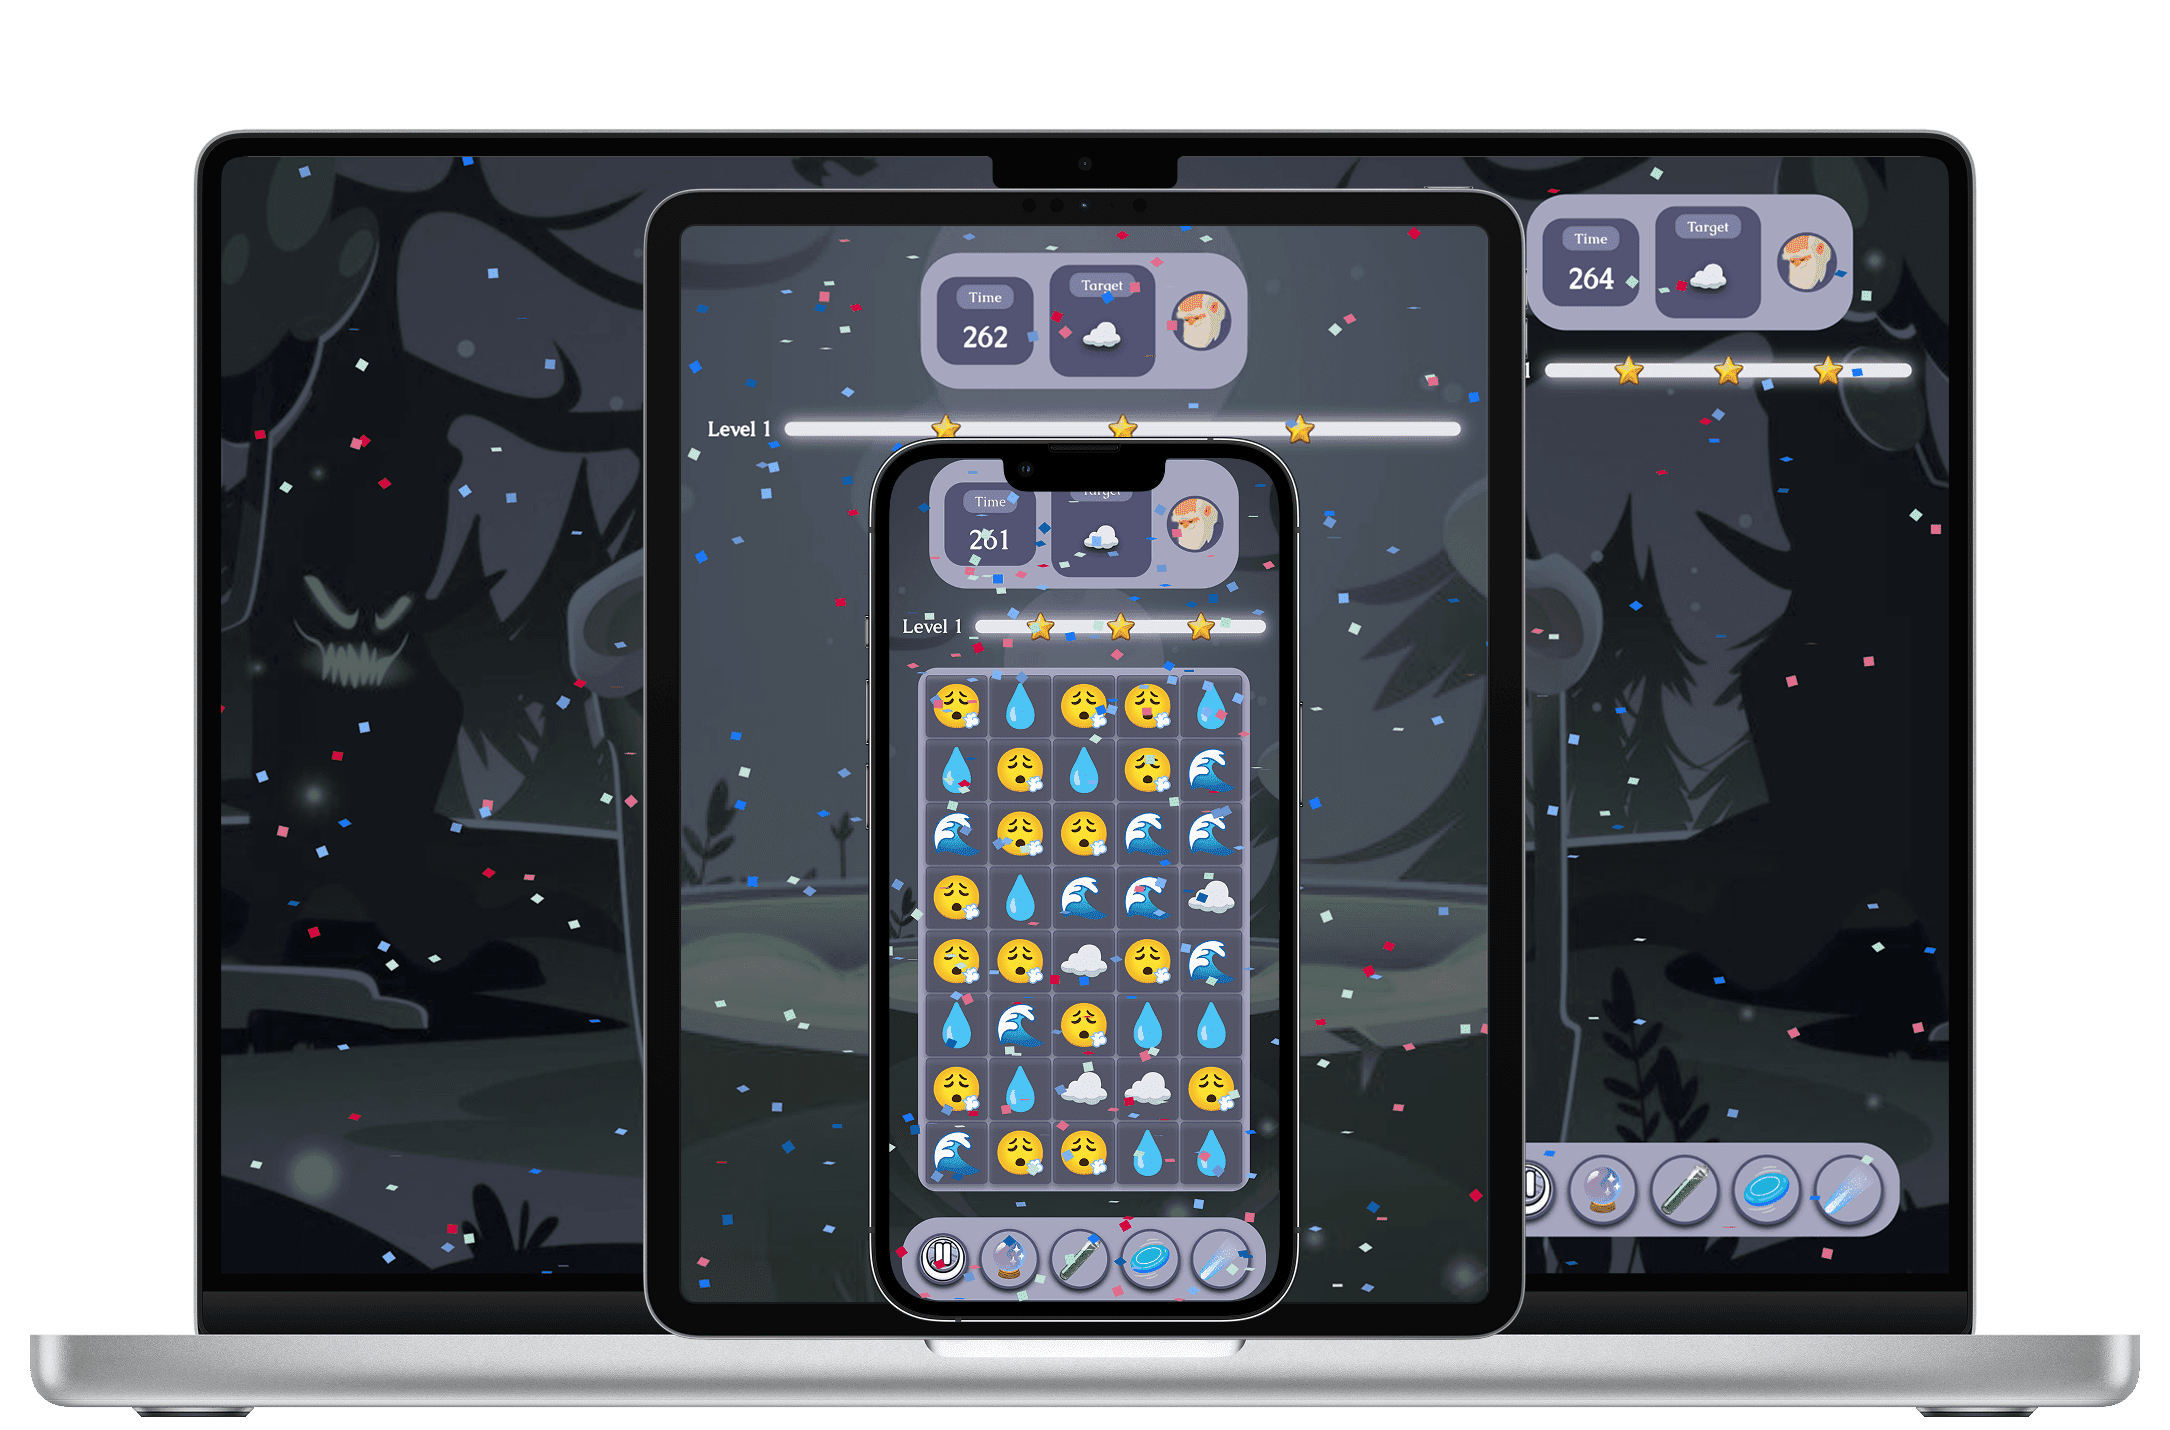
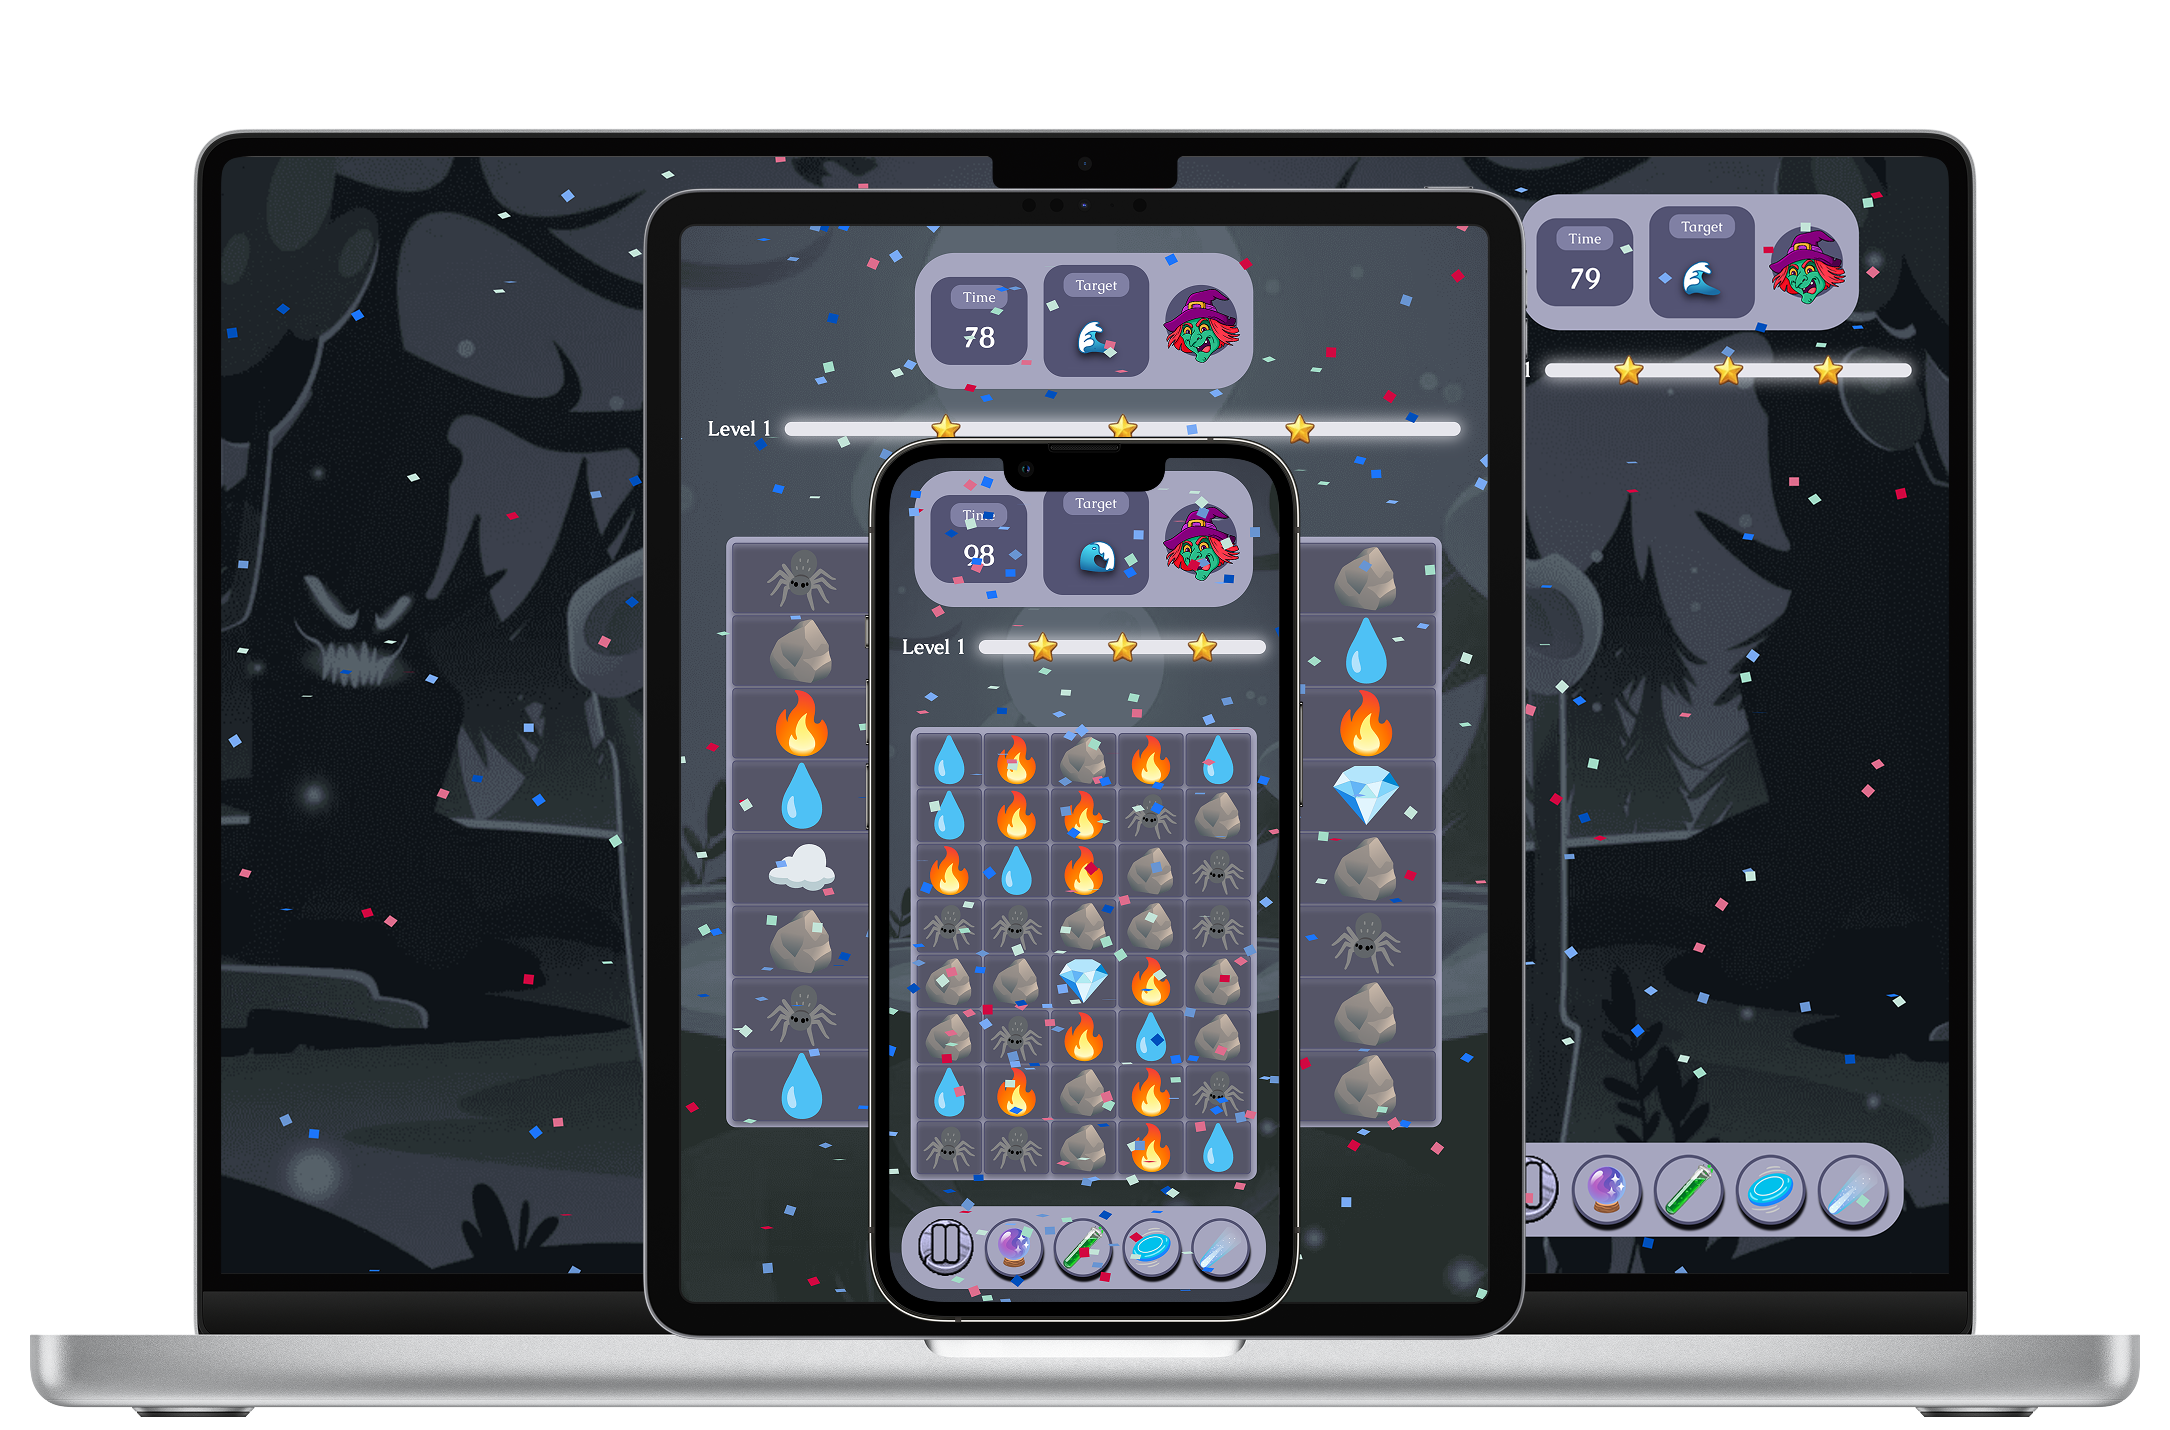
update play store release to early access and added some emo bg to screens

diff --git a/lib/features/profile/widgets/game_bar/index.dart b/lib/features/profile/widgets/game_bar/index.dart
@@ -31,94 +31,90 @@ class GameBar extends StatelessWidget {
   Widget build(BuildContext context) {
     final scale = context.globalScale;
     final profile = context.watchProfile;
+    
+    final topPadding = MediaQuery.paddingOf(context).top;
 
-    return SafeArea(
-      bottom: false,
-      child: SizedBox(
-        height: 105.0 * scale,
-        child: Container(
-          color: backgroundColor,
-          child: Stack(
-            clipBehavior: Clip.none,
-            children: [
-              Container(
-                height: 90.0 * scale,
-                decoration: BoxDecoration(
-                  color: context.palette.midnight,
-                  borderRadius: const BorderRadius.vertical(
-                    bottom: Radius.circular(24.0),
+    return SizedBox(
+      height: (105.0 * scale) + topPadding,
+      child: Container(
+        color: backgroundColor,
+        child: Stack(
+          clipBehavior: Clip.none,
+          children: [
+            Container(
+              height: (90.0 * scale) + topPadding,
+              decoration: BoxDecoration(
+                color: context.palette.midnight,
+                borderRadius: const BorderRadius.vertical(
+                  bottom: Radius.circular(24.0),
+                ),
+                boxShadow: [
+                  BoxShadow(
+                    color: context.palette.voidBlack,
+                    offset: Offset(0, 6 * scale),
+                    blurRadius: 0,
                   ),
-                  boxShadow: [
-                    BoxShadow(
-                      color: context.palette.voidBlack,
-                      offset: Offset(0, 6 * scale),
-                      blurRadius: 0,
-                    ),
-                    BoxShadow(
-                      color: context.palette.voidBlack.withValues(alpha: 0.3),
-                      offset: Offset(0, 10 * scale),
-                      blurRadius: 10,
-                      spreadRadius: 1,
-                    ),
-                  ],
-
-                  image: DecorationImage(
-                    image: const AssetImage('assets/images/vertical_lines.png'),
-                    fit: BoxFit.cover,
-                    colorFilter: ColorFilter.mode(
-                      context.palette.midnight.withValues(alpha: 0.069),
-                      BlendMode.dstATop,
-                    ),
+                  BoxShadow(
+                    color: context.palette.voidBlack.withValues(alpha: 0.3),
+                    offset: Offset(0, 10 * scale),
+                    blurRadius: 10,
+                    spreadRadius: 1,
+                  ),
+                ],
+                image: DecorationImage(
+                  image: const AssetImage('assets/images/vertical_lines.png'),
+                  fit: BoxFit.cover,
+                  colorFilter: ColorFilter.mode(
+                    context.palette.midnight.withValues(alpha: 0.069),
+                    BlendMode.dstATop,
                   ),
                 ),
               ),
-              Positioned(
-                top: 20 * scale,
-                left: 12 * scale,
-                right: 12 * scale,
-                child: Row(
-                  mainAxisAlignment: MainAxisAlignment.spaceBetween,
-                  crossAxisAlignment: CrossAxisAlignment.center,
-                  children: [
-                    AppIcon(
-                      fileName: 'mail_inbox',
-                      size: 30 * scale,
-                      onTap: () => onNotifTap(context),
+            ),
+            Positioned(
+              top: (20 * scale) + topPadding,
+              left: 12 * scale,
+              right: 12 * scale,
+              child: Row(
+                mainAxisAlignment: MainAxisAlignment.spaceBetween,
+                crossAxisAlignment: CrossAxisAlignment.center,
+                children: [
+                  AppIcon(
+                    fileName: 'mail_inbox',
+                    size: 30 * scale,
+                    onTap: () => onNotifTap(context),
+                  ),
+                  const SizedBox(width: 8),
+                  ResourcePill(
+                    iconPath: 'assets/images/cauldron.png',
+                    value: profile.cauldrons == 5
+                        ? "Full"
+                        : profile.cauldrons.toString(),
+                    onTap: () => onCauldronTap(context),
+                  ),
+                  AnimatedButton(
+                    child: ProfileAvatar(
+                      avatar: profile.avatar,
+                      onTap: () => onProfileTap(context),
                     ),
-                    const SizedBox(width: 8),
-                    ResourcePill(
-                      iconPath: 'assets/images/cauldron.png',
-                      value: profile.cauldrons == 5
-                          ? "Full"
-                          : profile.cauldrons.toString(),
-                      onTap: () => onCauldronTap(context),
-                    ),
-                    AnimatedButton(
-                      child: ProfileAvatar(
-                        avatar: profile.avatar,
-                        onTap: () => onProfileTap(context),
-                      ),
-                    ),
-                    Flexible(
-                      child: ResourcePill(
-                        iconPath: 'assets/images/dice.png',
-                        value: profile.dices.toString(),
-                        onTap: () =>
-                            GoRouter.of(context).goNamed(Routes.market),
-                      ),
-                    ),
-                    const SizedBox(width: 8),
-                    AppIcon(
-                      fileName: 'settings',
-                      size: 30 * scale,
+                  ),
+                  ResourcePill(
+                      iconPath: 'assets/images/dice.png',
+                      value: profile.dices.toString(),
                       onTap: () =>
-                          GoRouter.of(context).pushNamed(Routes.settings),
+                          GoRouter.of(context).goNamed(Routes.market),
                     ),
-                  ],
-                ),
+                  const SizedBox(width: 8),
+                  AppIcon(
+                    fileName: 'settings',
+                    size: 30 * scale,
+                    onTap: () =>
+                        GoRouter.of(context).pushNamed(Routes.settings),
+                  ),
+                ],
               ),
-            ],
-          ),
+            ),
+          ],
         ),
       ),
     );

diff --git a/lib/features/grimoire/screen.dart b/lib/features/grimoire/screen.dart
@@ -27,30 +27,36 @@ class GrimoireScreen extends StatelessWidget {
         : null;
 
     return Scaffold(
-      backgroundColor: palette.midnight,
-      body: GridView.builder(
-        itemCount: recipes.length,
-        padding: EdgeInsets.only(
-          right: screenWidth > 900 ? 16.0 : 8.0,
-          left: 8.0,
-          bottom: 24.0,
-          top: 12.0,
-        ),
-        gridDelegate: const SliverGridDelegateWithFixedCrossAxisCount(
-          crossAxisCount: 4,
-          crossAxisSpacing: 6,
-          mainAxisSpacing: 6,
-          childAspectRatio: 0.72,
-        ),
-        itemBuilder: (context, index) {
-          final recipe = recipes[index];
-          return RecipeCard(
-            isUnlocked: profile.isRecipeUnlocked(recipe.id),
-            isUnread: profile.isRecipeUnread(recipe.id),
-            autoOpen: recipe.id == targetAutoOpenId,
-            recipe: recipe,
-          );
-        },
+      body: Stack(
+        children: [
+          Positioned.fill(
+            child: Image.asset('assets/images/emo_2.png', fit: BoxFit.cover),
+          ),
+          GridView.builder(
+            itemCount: recipes.length,
+            padding: EdgeInsets.only(
+              right: screenWidth > 900 ? 16.0 : 8.0,
+              left: 8.0,
+              bottom: 24.0,
+              top: 12.0,
+            ),
+            gridDelegate: const SliverGridDelegateWithFixedCrossAxisCount(
+              crossAxisCount: 4,
+              crossAxisSpacing: 6,
+              mainAxisSpacing: 6,
+              childAspectRatio: 0.72,
+            ),
+            itemBuilder: (context, index) {
+              final recipe = recipes[index];
+              return RecipeCard(
+                isUnlocked: profile.isRecipeUnlocked(recipe.id),
+                isUnread: profile.isRecipeUnread(recipe.id),
+                autoOpen: recipe.id == targetAutoOpenId,
+                recipe: recipe,
+              );
+            },
+          ),
+        ],
       ),
     );
   }

diff --git a/lib/features/cauldron/screen.dart b/lib/features/cauldron/screen.dart
@@ -9,11 +9,18 @@ class CauldronScreen extends StatelessWidget {
 
   @override
   Widget build(BuildContext context) {
-    return const Scaffold(
-      body: ResponsiveScreen(
-        topMessageArea: Ranking(),
-        squarishMainArea: Cauldron(),
-        rectangularMenuArea: PlayBtn(),
+    return Scaffold(
+      body: Stack(
+        children: [
+          Positioned.fill(
+            child: Image.asset('assets/images/emo.png', fit: BoxFit.cover),
+          ),
+          const ResponsiveScreen(
+            topMessageArea: Ranking(),
+            squarishMainArea: Cauldron(),
+            rectangularMenuArea: PlayBtn(),
+          ),
+        ],
       ),
     );
   }

diff --git a/lib/features/cauldron/game/screen.dart b/lib/features/cauldron/game/screen.dart
@@ -37,14 +37,10 @@ class _CauldronPlayScreenState extends State<CauldronPlayScreen> {
   Widget build(BuildContext context) {
     final scale = context.globalScale;
     return Container(
-      decoration: BoxDecoration(
+      decoration: const BoxDecoration(
         image: DecorationImage(
-          image: const AssetImage('assets/images/vertical_lines.png'),
+          image: AssetImage('assets/images/emo.png'),
           fit: BoxFit.cover,
-          colorFilter: ColorFilter.mode(
-            context.palette.voidBlack.withValues(alpha: 0.05),
-            BlendMode.dstATop,
-          ),
         ),
       ),
       child: ResponsiveScreen(
